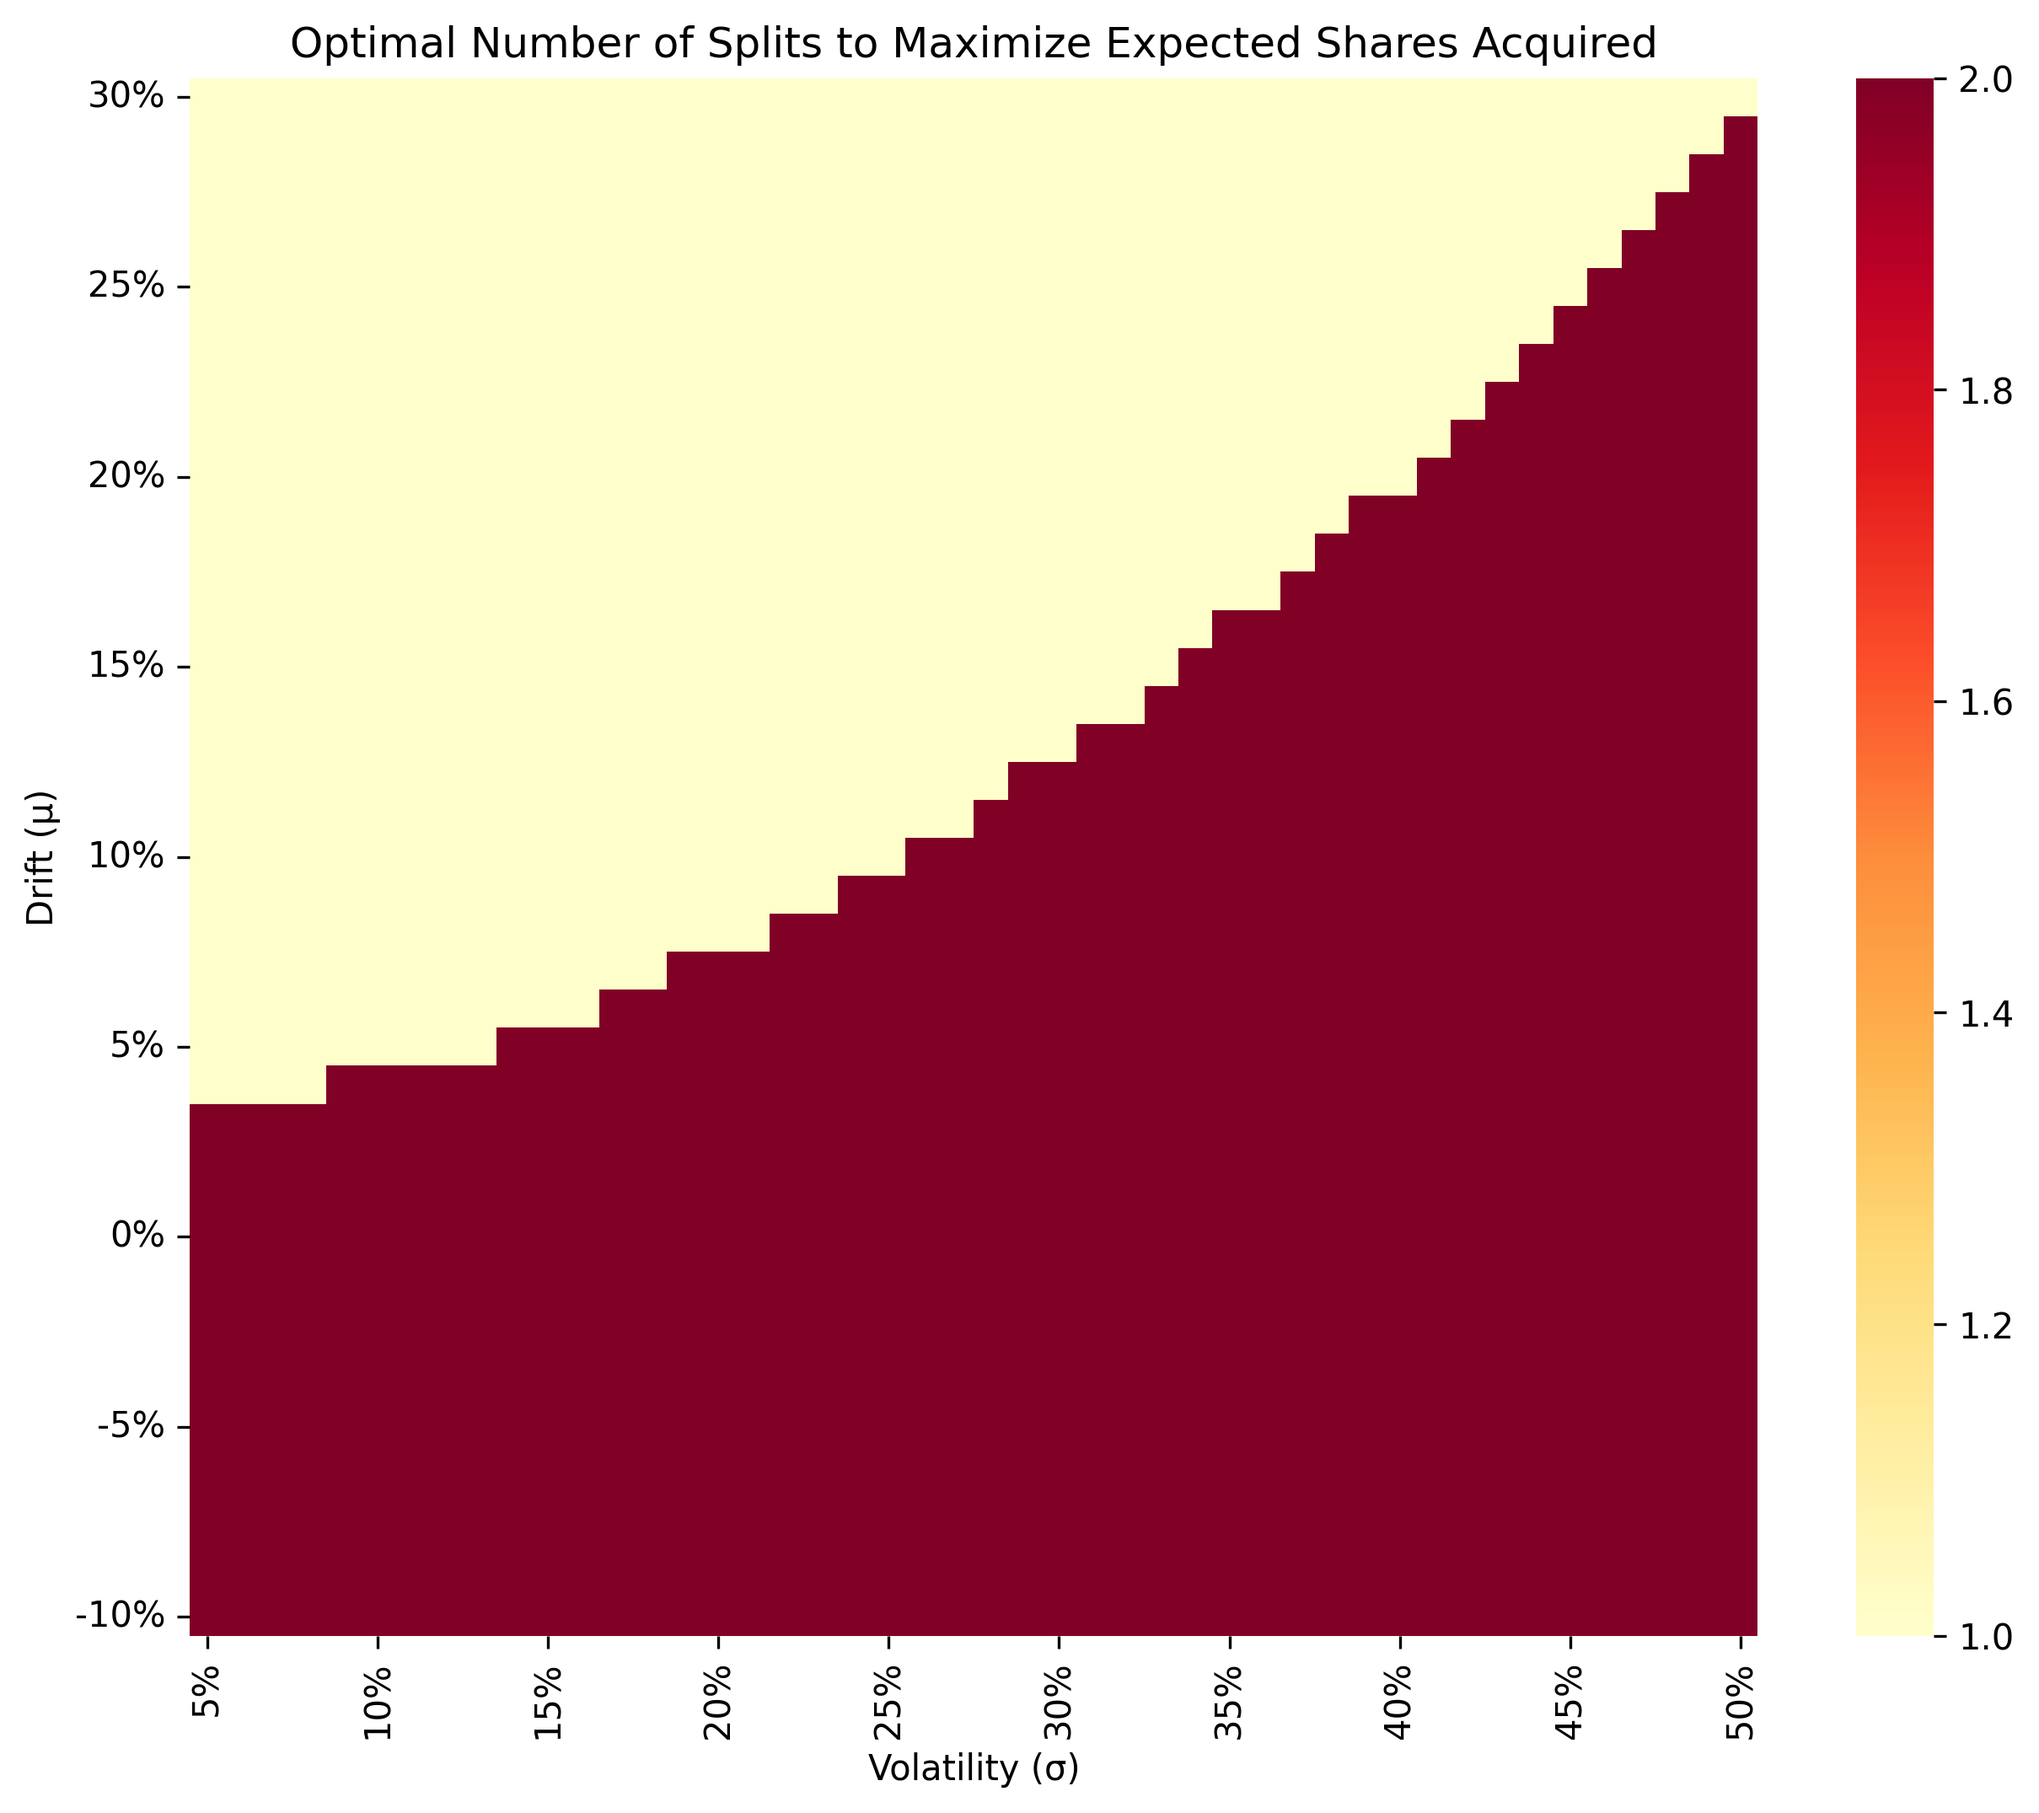
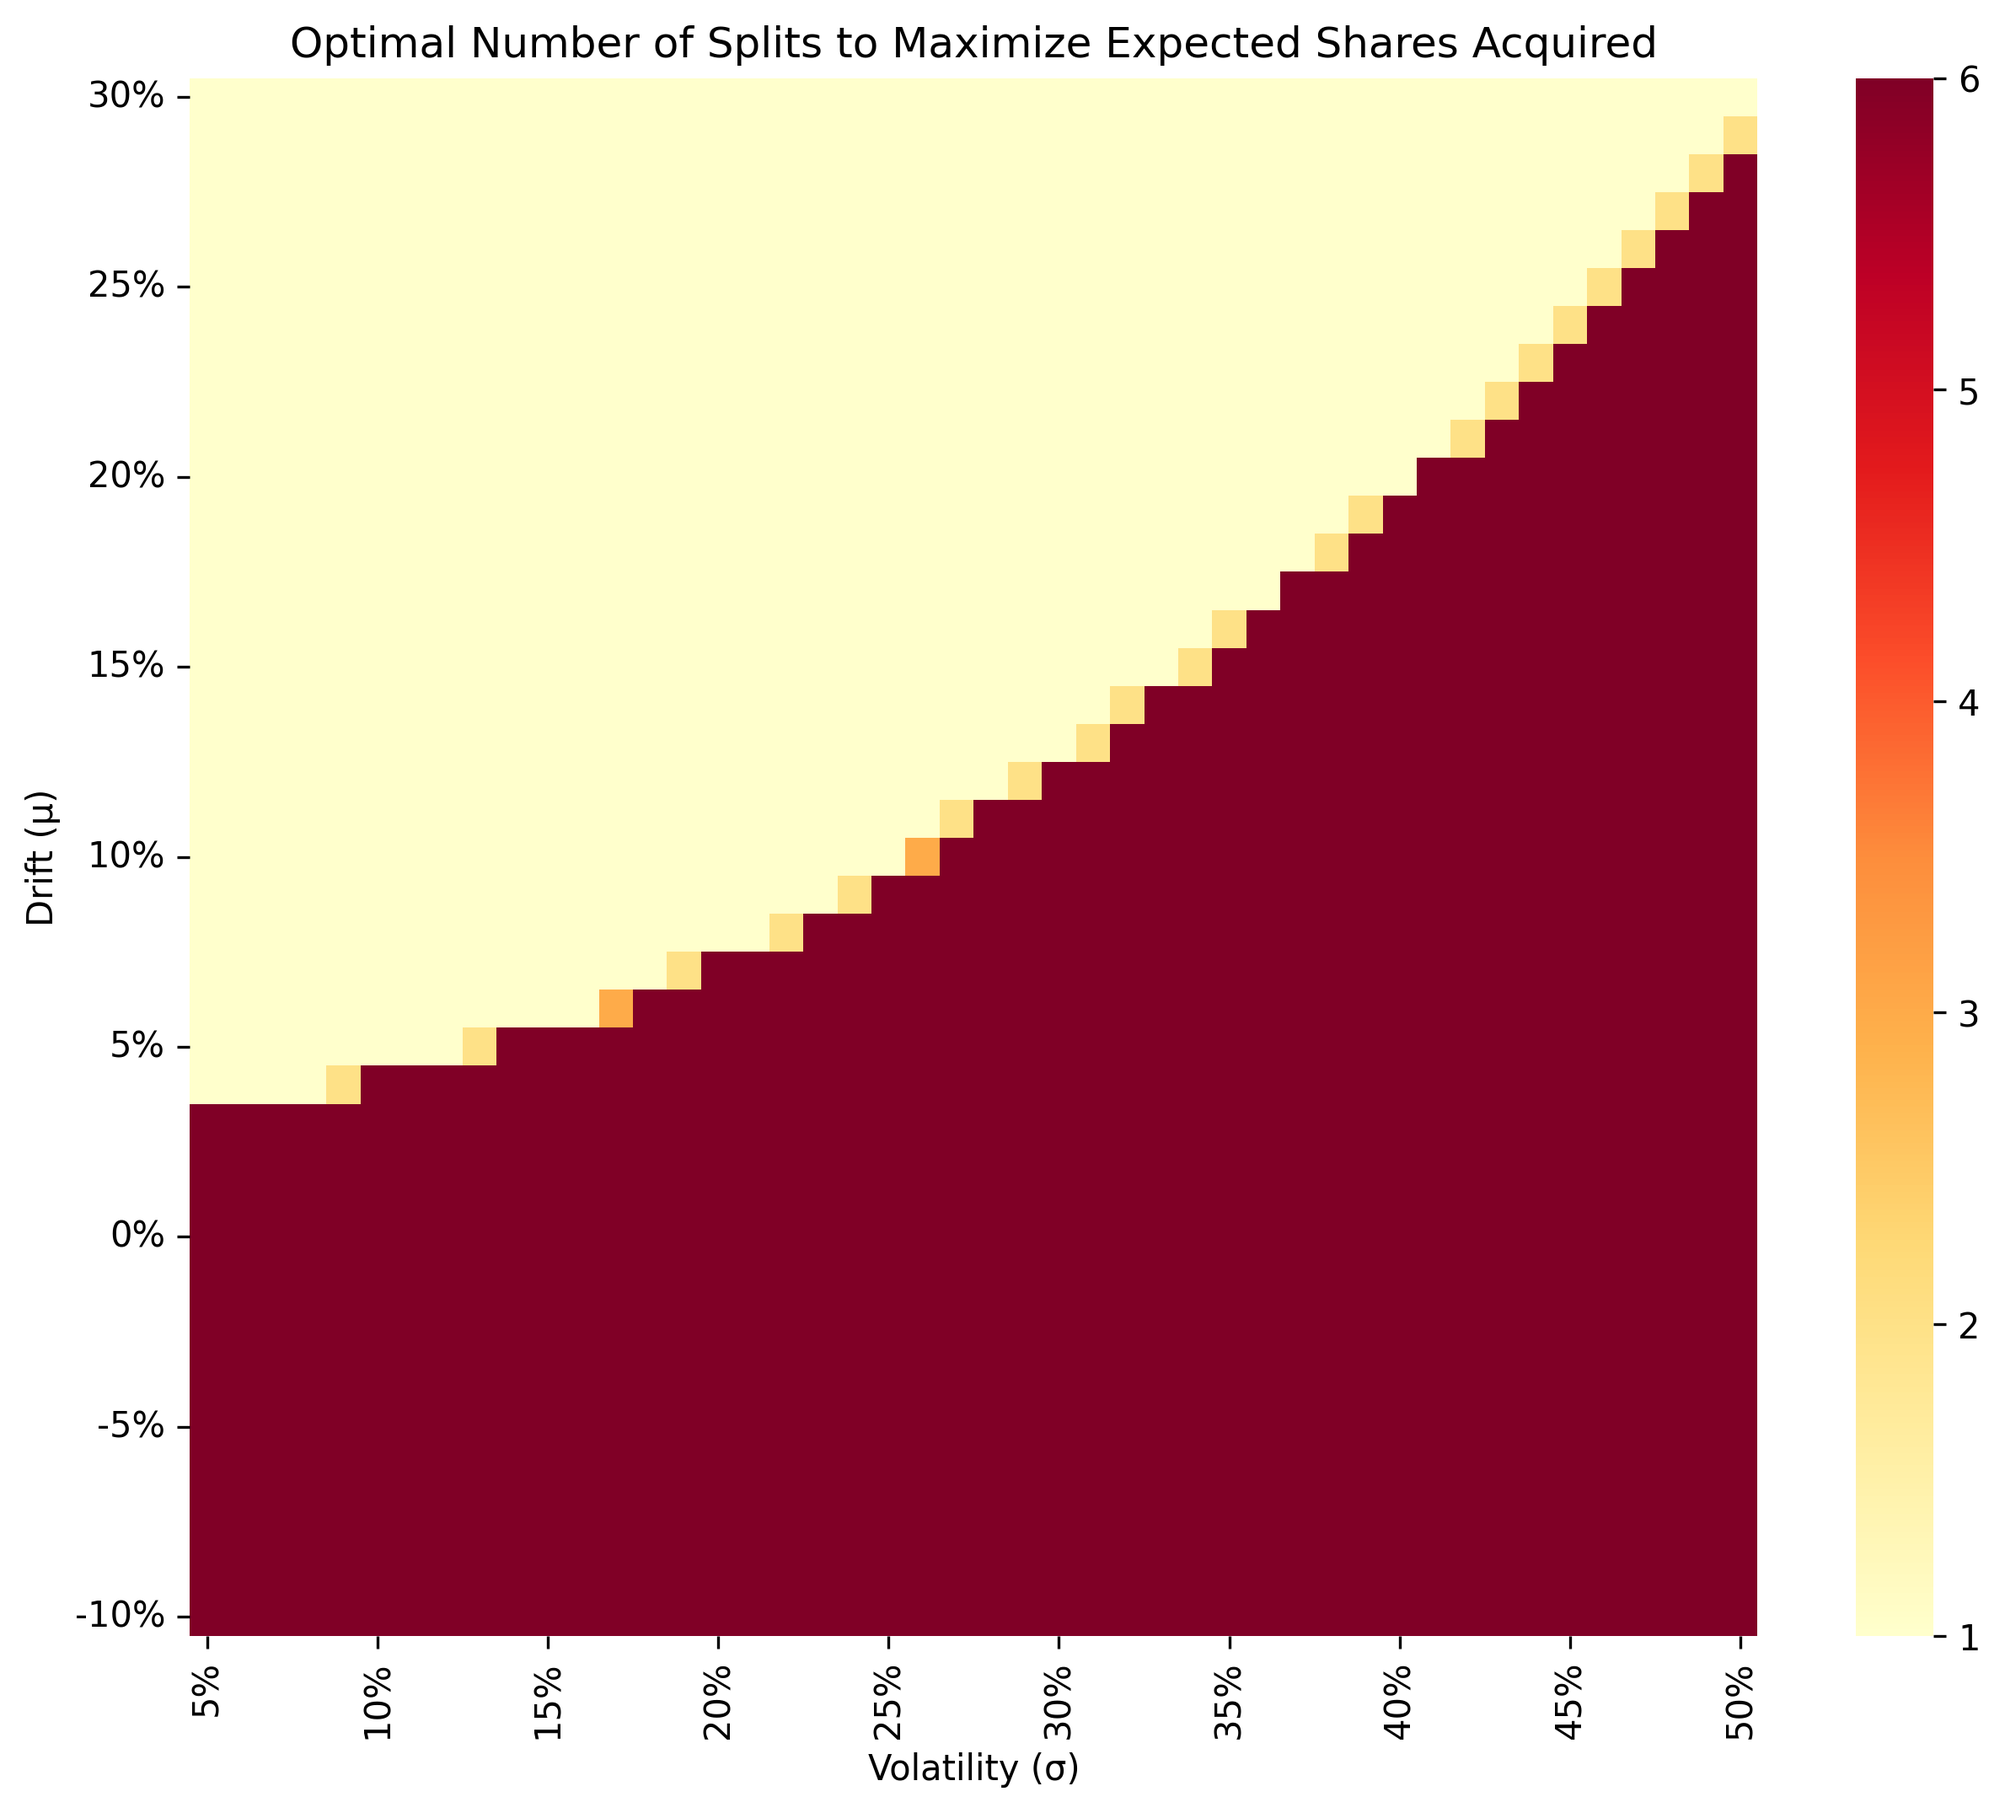
feat: Enhance investment split simulation with cascading price triggers
Update `simulation.py` to incorporate a price-contingent trigger mechanism
("buying the dip") on top of the regular time-based splitting strategy.

Specifically:
- Uses a cascading trigger margin of k * 0.25 * sigma for the k-th allocation.
- If the price drops below the trigger before the scheduled target date, the
  capital is deployed immediately at that price.
- If the price never hits the trigger by the target date, the strategy reverts
  to investing at the market price on that scheduled date.
- Uses vectorized operations to efficiently search for trigger hits across
  all Monte Carlo paths.

diff --git a/simulation.py b/simulation.py
@@ -46,10 +46,11 @@ def evaluate_strategy(
     deployment_horizon: float,
     performance_horizon: float,
     dt: float,
-    cash_rate: float
+    cash_rate: float,
+    sigma: float
 ) -> Tuple[np.ndarray, np.ndarray]:
     """
-    Evaluate an N-split investment strategy.
+    Evaluate an N-split investment strategy with a price-contingent trigger.
 
     Args:
         price_paths: Array of simulated prices, shape (n_steps + 1, n_sims).
@@ -59,6 +60,7 @@ def evaluate_strategy(
         performance_horizon: Time at which to evaluate final value (e.g., 1.0 years).
         dt: Time step of the simulation.
         cash_rate: Risk-free rate for uninvested cash (annualized, continuous).
+        sigma: Volatility used to calculate the price trigger margin.
 
     Returns:
         Tuple of (shares_acquired, final_portfolio_values).
@@ -73,24 +75,64 @@ def evaluate_strategy(
         final_values = shares_acquired * final_prices
         return shares_acquired, final_values
 
-    # Calculate deployment times
+    # Calculate target dates for the time-based fallback
     # Example: if 2 splits over 0.5 years, deploy at t=0 and t=0.5
     # If 3 splits over 0.5 years, deploy at t=0, t=0.25, t=0.5
     deployment_times = np.linspace(0, deployment_horizon, n_splits)
-    deployment_indices = np.round(deployment_times / dt).astype(int)
+    target_indices = np.round(deployment_times / dt).astype(int)
 
     investment_per_split = total_investment / n_splits
     total_shares = np.zeros(n_sims)
 
-    for t_idx, t_time in zip(deployment_indices, deployment_times):
-        # Calculate how much the cash has grown up to this point
-        # Cash compounding: C(t) = C(0) * exp(r * t)
-        cash_available = investment_per_split * np.exp(cash_rate * t_time)
+    # Track which index in the simulation each path is currently at
+    current_indices = np.zeros(n_sims, dtype=int)
 
-        # Buy shares at the current price
-        current_prices = price_paths[t_idx, :]
-        shares_bought = cash_available / current_prices
-        total_shares += shares_bought
+    # 1. First Allocation at t=0
+    cash_available = investment_per_split * np.exp(cash_rate * 0.0)
+    current_prices = price_paths[0, :]
+    total_shares += cash_available / current_prices
+
+    S0 = price_paths[0, 0] # Initial stock price is the same for all paths
+
+    # Process remaining N-1 allocations
+    for k in range(1, n_splits):
+        target_idx = target_indices[k]
+
+        # Cascading trigger price: drop by k * 0.25 * sigma
+        trigger_margin = k * 0.25 * sigma
+        trigger_price = S0 * max(0.0, 1.0 - trigger_margin) # Prevent negative prices
+
+        # Vectorized approach to find the first time price drops below trigger_price
+        # We only search between current_indices + 1 and target_idx
+
+        # Create a mask for valid search regions
+        # Shape: (target_idx + 1, n_sims)
+        time_steps = np.arange(target_idx + 1)[:, None]
+        valid_search_mask = (time_steps > current_indices) & (time_steps <= target_idx)
+
+        # Mask where prices are below trigger
+        trigger_mask = (price_paths[:target_idx + 1, :] <= trigger_price) & valid_search_mask
+
+        # Find the first index where trigger is hit for each simulation
+        # argmax returns the first index of True. If all are False, it returns 0.
+        first_hit_indices = np.argmax(trigger_mask, axis=0)
+
+        # Determine if a trigger was actually hit
+        hit_trigger = trigger_mask[first_hit_indices, np.arange(n_sims)]
+
+        # Set deploy index: if hit, use first_hit_indices, else use target_idx
+        deploy_indices = np.where(hit_trigger, first_hit_indices, target_idx)
+
+        # Deploy capital
+        deploy_times = deploy_indices * dt
+        cash_available = investment_per_split * np.exp(cash_rate * deploy_times)
+
+        execution_prices = price_paths[deploy_indices, np.arange(n_sims)]
+
+        total_shares += cash_available / execution_prices
+
+        # Update current indices
+        current_indices = deploy_indices
 
     final_prices = price_paths[-1, :]
     final_values = total_shares * final_prices
@@ -135,7 +177,7 @@ def run_simulation_grid():
             for n_splits in splits_to_test:
                 shares, final_values = evaluate_strategy(
                     price_paths, n_splits, total_investment,
-                    deployment_horizon, performance_horizon, dt, cash_rate
+                    deployment_horizon, performance_horizon, dt, cash_rate, sigma
                 )
 
                 # Metric 1: Median Final Value
